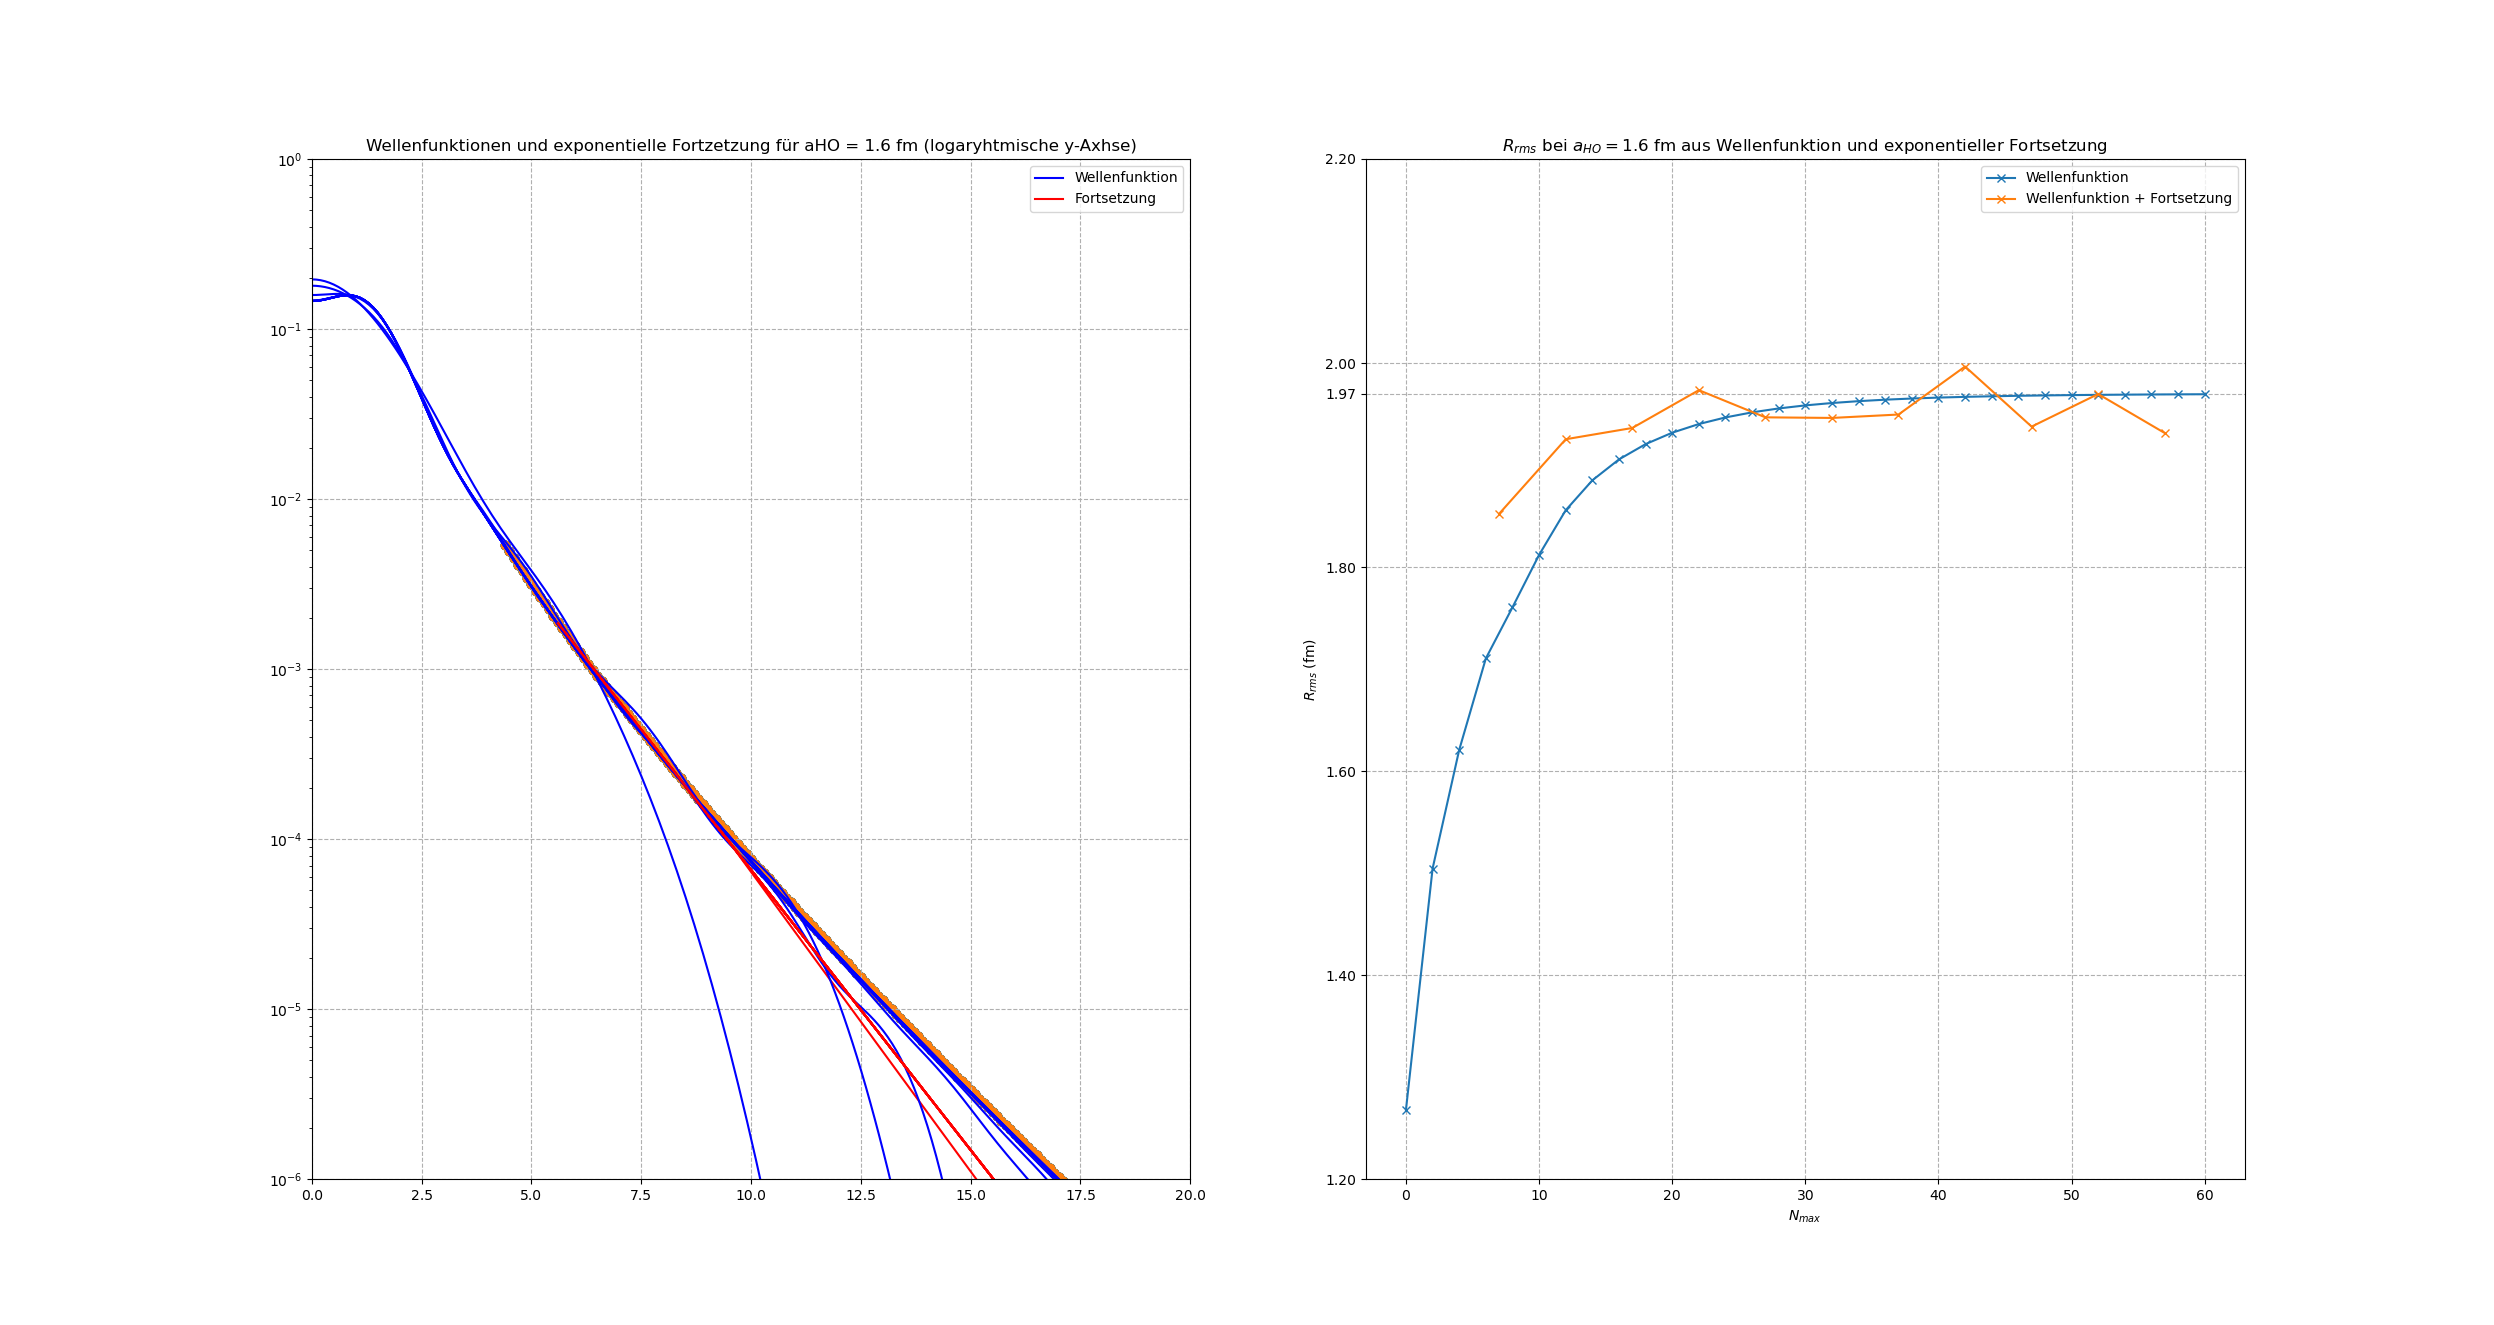
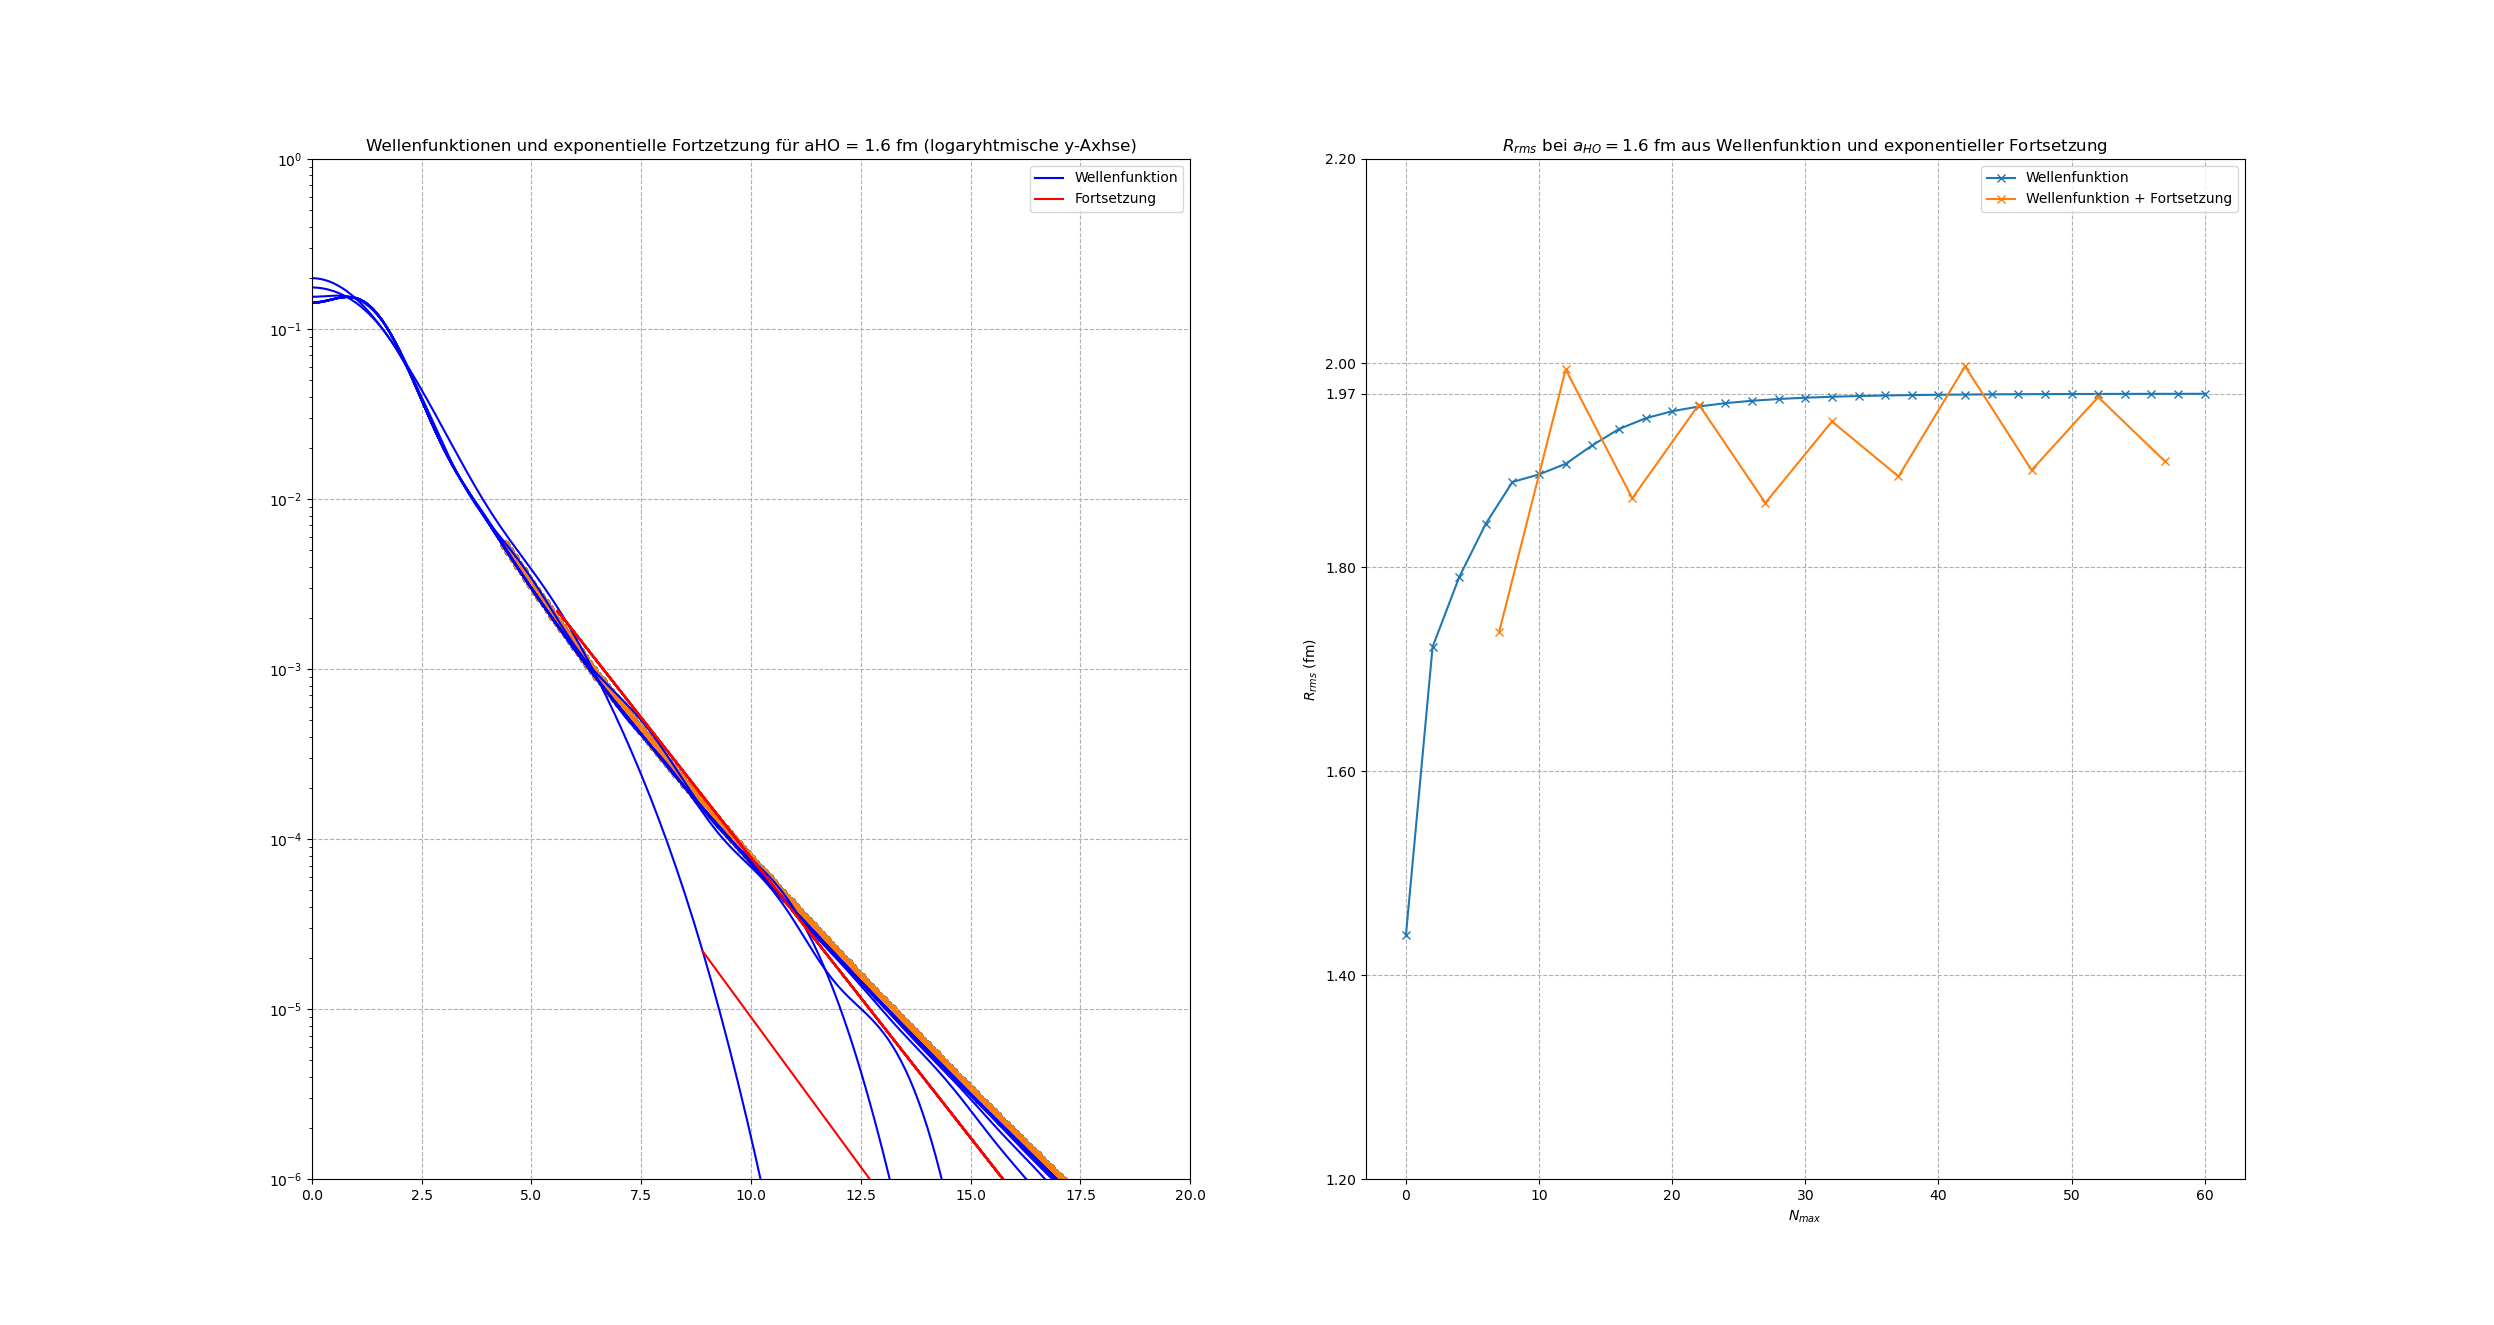
new plots and stuff

diff --git a/code/rrms_position_probability_density_continuation_overlapNmax-1.py b/code/rrms_position_probability_density_continuation_overlapNmax-1.py
@@ -40,88 +40,64 @@ def find_cont_par_cut(NNmax, aHO):
     
     # Finding the starting point of the linear range. It is chosen as the closest point to Nmax=1 density after r=3
     r3_index = int(3/dr)
-    diff_log_density_Nmax12 = np.abs(log_density[0, r3_index:] - log_density[1, r3_index:])
+    diff_log_density_Nmax12 = np.abs(log_density[0, r3_index:] - log_density[-1, r3_index:])
     start_linear_index = max(np.where(diff_log_density_Nmax12 < min(diff_log_density_Nmax12) + 0.1)[0]) + r3_index
    
-    #creating empty lists to append to later 
-    fit_points_indices = np.array([])
-    rrms_lst = np.array([])
-    slope_lst = np.array([])
-    connection_lst = np.array([])
-    y_intersect_lst = np.array([])
-    norm_factor_lst = np.array([])
+    # Difference between log density at Nmax_j to Nmax_i starting from the start point of the linear range
+    diff_log_density = np.abs(log_density[1, start_linear_index:] - log_density[2, start_linear_index:])
     
-    # for loop for the log_densities starting at 2 which means Nmax=2+dNmax
-    i = 0
-    for Nmax_i in range(2, log_density.shape[0]):
-        
-        # for loop for all log densities with lower Nmax starting at 1 so Nmax=2
-        for Nmax_j in range(1, Nmax_i):
-            
-            # Difference between log density at Nmax_j to Nmax_i starting from the start point of the linear range
-            diff_log_density = np.abs(log_density[Nmax_i, start_linear_index:] - log_density[Nmax_j, start_linear_index:])
-            
-            # Indiexes are at the points, where the difference in log densities is smaller 0.1
-            fit_points_indices = np.append(fit_points_indices, np.where(diff_log_density < 0.7)[0] + start_linear_index)
-            
-            # condition to have two differen points in order to fit a straight
-            if np.unique(fit_points_indices).size < 2:
-                delta = 0.01 + 10**(-6)
-                while np.unique(fit_points_indices).size < 2:
-                    fit_points_indices = np.append(fit_points_indices, np.where(diff_log_density < delta)[0] + start_linear_index)
-                    delta += 10**(-6)
-        
-        # Removing duplicates and finding the corresponding values to the indexes
-        fit_points_indices = np.unique(fit_points_indices).astype(int)
-        r_fit = r[fit_points_indices]
-        log_density_fit = log_density[Nmax_i, fit_points_indices]
-        fit_points = np.array([r_fit, log_density_fit])
-        
-        # fitting the points to finde the slope
-        slope = curve_fit(log_model, r_fit, log_density_fit)[0][0]
-        
-        # Finding a point that has the same slope as the fitted one 
-        d_dr = derivative(r, log_density[Nmax_i, start_linear_index:], 1)
-        connection_point = np.array([])
-        delta = 10**(-6)
-        while connection_point.size == 0:
-            connection_point = r[start_linear_index:][((d_dr > slope - delta) & (d_dr < slope + delta))]
+    # Indiexes are at the points, where the difference in log densities is smaller 0.1
+    distance = 0.05
+    fit_points_indices = np.where(diff_log_density < distance)[0] + start_linear_index
+    
+    # condition to have two differen points in order to fit a straight
+    if np.unique(fit_points_indices).size < 2:
+        delta = distance + 10**(-6)
+        while np.unique(fit_points_indices).size < 2:
+            fit_points_indices = np.append(fit_points_indices, np.where(diff_log_density < delta)[0] + start_linear_index)
             delta += 10**(-6)
-        
-        connection_lst = np.append(connection_lst, connection_point)
-        
-        # Finding the y intersection
-        y_intersect = np.log(deut_density(connection_point, 2 + dNmax + dNmax * i , aHO)) - slope * connection_point
-        
-
-        r_wave = r[r <= connection_point]
-        r_cont = r[r > connection_point]
-        
-        density_lst = deut_density(r_wave, Nmax_i, aHO)
-        cont_lst = np.exp(log_model(r_cont, slope, y_intersect)) 
-         
-        norm_integ_wave = np.trapz(density_lst * r_wave**2, x=r_wave)
-        norm_integ_cont = np.trapz(cont_lst * r_cont**2, x=r_cont)
-        
-        norm_integ = norm_integ_wave + norm_integ_cont
-        
-        norm_factor = 1 / norm_integ
-        norm_factor_lst = np.append(norm_factor_lst, norm_factor)
-
-        rsq_wave = np.trapz(density_lst * norm_factor * r_wave**4, x=r_wave) / 4
-        rsq_cont = np.trapz(cont_lst * norm_factor * r_cont**4, x=r_cont) / 4
-        
-        rrms = np.sqrt(rsq_wave + rsq_cont)
-        rrms_lst = np.append(rrms_lst, rrms)
-        
-        slope_lst = np.append(slope_lst, slope)
-        y_intersect_lst = np.append(y_intersect_lst, y_intersect)
-        
-        i += 1
     
-    rrms_lst = np.array([np.arange(2 + dNmax, NNmax + 1 , dNmax), rrms_lst])  
+    # Removing duplicates and finding the corresponding values to the indexes
+    fit_points_indices = np.unique(fit_points_indices).astype(int)
+    r_fit = r[fit_points_indices]
+    log_density_fit = log_density[2, fit_points_indices]
+    fit_points = np.array([r_fit, log_density_fit])
     
-    return slope_lst, y_intersect_lst, connection_lst, rrms_lst, norm_factor_lst, fit_points
+    # fitting the points to finde the slope
+    slope = curve_fit(log_model, r_fit, log_density_fit)[0][0]
+    
+    # Finding a point that has the same slope as the fitted one 
+    d_dr = derivative(r, log_density[2, start_linear_index:], 1)
+    connection_point = np.array([])
+    delta = 10**(-6)
+    while connection_point.size == 0:
+        connection_point = r[start_linear_index:][((d_dr > slope - delta) & (d_dr < slope + delta))]
+        delta += 10**(-6)
+    connection_point = connection_point[0]
+    
+    # Finding the y intersection
+    y_intersect = np.log(deut_density(connection_point, NNmax , aHO)) - slope * connection_point
+    
+
+    r_wave = r[r <= connection_point]
+    r_cont = r[r > connection_point]
+    
+    density_lst = deut_density(r_wave, NNmax, aHO)
+    cont_lst = np.exp(log_model(r_cont, slope, y_intersect)) 
+        
+    norm_integ_wave = np.trapz(density_lst * r_wave**2, x=r_wave)
+    norm_integ_cont = np.trapz(cont_lst * r_cont**2, x=r_cont)
+    
+    norm_integ = norm_integ_wave + norm_integ_cont
+    
+    norm_factor = 1 / norm_integ
+
+    rsq_wave = np.trapz(density_lst * norm_factor * r_wave**4, x=r_wave) / 4
+    rsq_cont = np.trapz(cont_lst * norm_factor * r_cont**4, x=r_cont) / 4
+    
+    rrms = np.sqrt(rsq_wave + rsq_cont)
+    
+    return slope, y_intersect, connection_point, rrms, norm_factor, fit_points
 
 
 
@@ -151,24 +127,23 @@ def rrms_integral_trapz(Nmax, aHO, Nstep, rmax, dr):
 
 
 def test_plots(r, NNmax, dNmax):
-    Nmax_lst = np.arange(2, NNmax + 1, dNmax)
+    Nmax_lst = np.arange(3, NNmax + 1, dNmax)
     
     for j in range(aHO_lst.size):
         rrms = []
         plt.figure()
         plt.subplot(121)
-        slope , y_sect, connect, rrms, norm, fit_points = find_cont_par_cut(NNmax, dNmax, aHO_lst[j])
 
-        i = 0
+        rrms_lst = []
         for Nmax in Nmax_lst:
-            r_cont = np.array([connect[i], 20])
-            plt.plot(r, deut_density(r, Nmax, aHO_lst[j]) * norm[i], 'b')
-            plt.plot(r_cont, np.exp(log_model(r_cont, slope[i], y_sect[i])) * norm[i], "r")
+            slope , y_sect, connect, rrms, norm, fit_points = find_cont_par_cut(Nmax, aHO_lst[j])
+            r_cont = np.array([connect, 20])
+            plt.plot(r, deut_density(r, Nmax, aHO_lst[j]) * norm, 'b')
+            plt.plot(r_cont, np.exp(log_model(r_cont, slope, y_sect)) * norm, "r")
             plt.scatter(fit_points[0], np.exp(fit_points[1]))
             plt.semilogy()
             plt.grid(linestyle='--')
-        
-            i =+ 1
+            rrms_lst.append(rrms)
         
         plt.title("Wellenfunktionen und exponentielle Fortzetzung für aHO = " + str(aHO_lst[j]) + " fm (logaryhtmische y-Axhse)") 
         plt.ylim(10**(-6), 1)
@@ -176,10 +151,10 @@ def test_plots(r, NNmax, dNmax):
         plt.legend(["Wellenfunktion", "Fortsetzung"])
         
         rmax, dr = max(r), r[1]-r[0]
-        rrms_full_wave = rrms_integral_trapz(60, 1.4, 2, rmax, dr)
+        rrms_full_wave = rrms_integral_trapz(60, aHO_lst[j], 2, rmax, dr)
         plt.subplot(122)
         plt.plot(rrms_full_wave[0], rrms_full_wave[1], 'x-')
-        plt.plot(rrms[0], rrms[1], 'x-')
+        plt.plot(Nmax_lst, rrms_lst, 'x-')
         plt.title('$R_{rms}$ bei $a_{HO} = $' + str(aHO_lst[j]) + ' fm aus Wellenfunktion und exponentieller Fortsetzung')
         plt.legend(["Wellenfunktion", 'Wellenfunktion + Fortsetzung'])
         plt.xlabel('$N_{max}$')
@@ -190,7 +165,7 @@ def test_plots(r, NNmax, dNmax):
 
 
             
-test_plots(r, 60, 5)
+test_plots(r, 40, 2)
 
 
 plt.show()

diff --git a/code/rrms_position_probability_density_continuation_overlap.py b/code/rrms_position_probability_density_continuation_overlap.py
@@ -31,7 +31,7 @@ def find_cont_par_cut(NNmax, dNmax, aHO):
 
     # Define r range
     dr = 0.1
-    r = np.arange(0, 50 + dr, dr)
+    r = np.arange(0, 100 + dr, dr)
    
     # create first list with Nmax=1 and then compute all other lists in parallel. Nmax goes from 2 to the closest number below NNmax that can be reached in steps the size of dNmax
     density = np.array([deut_density(r, 1, aHO)])
@@ -94,7 +94,7 @@ def find_cont_par_cut(NNmax, dNmax, aHO):
         connection_lst = np.append(connection_lst, connection_point)
         
         # Finding the y intersection
-        y_intersect = np.log(deut_density(connection_point, 2 + dNmax + dNmax * i , aHO)) - slope * connection_point
+        y_intersect = np.log(deut_density(connection_point, Nmax_i , aHO)) - slope * connection_point
         
 
         r_wave = r[r <= connection_point]
@@ -179,7 +179,7 @@ def test_plots(r, NNmax, dNmax):
         plt.legend(["Wellenfunktion", "Fortsetzung"])
         
         rmax, dr = max(r), r[1]-r[0]
-        rrms_full_wave = rrms_integral_trapz(60, 1.4, 2, rmax, dr)
+        rrms_full_wave = rrms_integral_trapz(60, aHO_lst[j], 2, rmax, dr)
         plt.subplot(122)
         plt.plot(rrms_full_wave[0], rrms_full_wave[1], 'x-')
         plt.plot(rrms[0], rrms[1], 'x-')

diff --git a/code/rrms_position_probability_density_continuation_fixed.py b/code/rrms_position_probability_density_continuation_fixed.py
@@ -58,11 +58,13 @@ def norm_cont(Nmax, aHO, cut, rmax, dr):
 def rrms_int_cont_at4(Nmax, aHO, cut, rmax, dr):
     r_wave = np.arange(0, cut + dr, dr)
     r_cont = np.arange(cut, rmax + dr, dr)
+
+    norm = norm_cont(Nmax, aHO, cut, rmax, dr)
     
-    rsq_wave = np.trapz(deuteron_wavefunc(Nmax, aHO, r_wave)[3] * norm_cont(Nmax, aHO, cut, rmax, dr) * r_wave**4, x=r_wave) / 4
+    rsq_wave = np.trapz(deuteron_wavefunc(Nmax, aHO, r_wave)[3] * norm_cont(Nmax, aHO, cut, rmax, dr) * r_wave**4 * norm, x=r_wave) / 4
     
     cont_par = cont_at4(Nmax, aHO, cut)
-    rsq_cont = np.trapz(np.exp(lin_log_model(r_cont, cont_par[0], cont_par[1])) * norm_cont(Nmax, aHO, cut, rmax, dr) * r_cont**4, x=r_cont) / 4
+    rsq_cont = np.trapz(np.exp(lin_log_model(r_cont, cont_par[0], cont_par[1])) * norm_cont(Nmax, aHO, cut, rmax, dr) * r_cont**4 * norm, x=r_cont) / 4
     
     rrms = np.sqrt(rsq_wave + rsq_cont)
     

diff --git a/code/rrms_position_probability_density_continuation_variable.py b/code/rrms_position_probability_density_continuation_variable.py
@@ -152,7 +152,7 @@ def test_plots(r, NNmax, dNmax):
         plt.legend(["Wellenfunktion", "Fortsetzung"])
         
         rmax, dr = max(r), r[1]-r[0]
-        rrms_full_wave = rrms_integral_trapz(60, 1.4, 2, rmax, dr)
+        rrms_full_wave = rrms_integral_trapz(60, aHO_lst[j], 2, rmax, dr)
         plt.subplot(122)
         plt.plot(rrms_full_wave[0], rrms_full_wave[1], 'x-')
         plt.plot(Nmax_lst, rrms, 'x-')
@@ -202,7 +202,7 @@ def test_d(r, NNmax, dNmax):
         plt.title('aHO = ' + str(aHO_lst[j])+ ', d3/dr3')
         plt.grid(linestyle='--')
             
-test_plots(r, 10, 2)
+test_plots(r, 60, 5)
 
 # test_d(np.arange(0,15,0.1), 5, 1)
 
